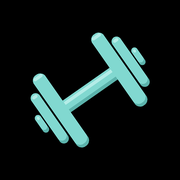
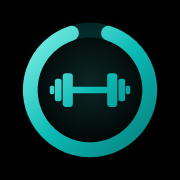
v11: ikona v designu 90days – prstenec s činkou
Claude-Session: https://claude.ai/code/session_01125fAZs4bJzJjWL3HVsvwH

diff --git a/sw.js b/sw.js
@@ -1,6 +1,6 @@
 /* Offline cache. Verzi zvyš, když nahraješ novou verzi appky. */
-const CACHE = "trenink-v10";
-const FILES = ["./", "./index.html", "./manifest.webmanifest", "./icon-180.png?v=2", "./icon-192.png?v=2", "./icon-512.png?v=2"];
+const CACHE = "trenink-v11";
+const FILES = ["./", "./index.html", "./manifest.webmanifest", "./icon-180.png?v=3", "./icon-192.png?v=3", "./icon-512.png?v=3"];
 
 self.addEventListener("install", e => {
   e.waitUntil(caches.open(CACHE).then(c => c.addAll(FILES)).then(() => self.skipWaiting()));

diff --git a/index.html b/index.html
@@ -9,8 +9,8 @@
 <meta name="apple-mobile-web-app-title" content="Trénink">
 <meta name="mobile-web-app-capable" content="yes">
 <link rel="manifest" href="./manifest.webmanifest">
-<link rel="apple-touch-icon" href="./icon-180.png?v=2">
-<link rel="icon" type="image/png" sizes="192x192" href="./icon-192.png?v=2">
+<link rel="apple-touch-icon" href="./icon-180.png?v=3">
+<link rel="icon" type="image/png" sizes="192x192" href="./icon-192.png?v=3">
 <title>Trénink</title>
 <style>
 :root{
